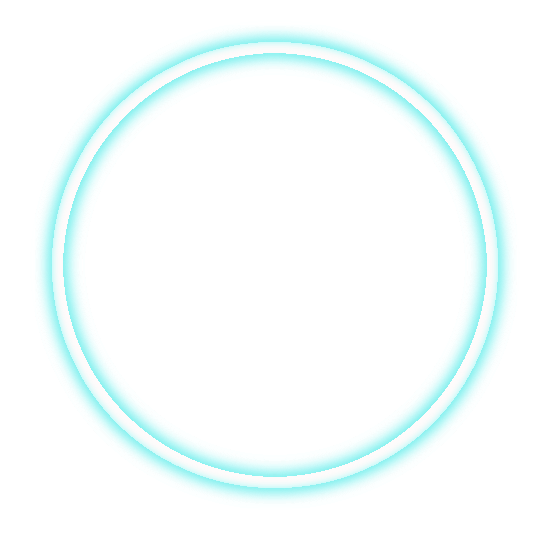
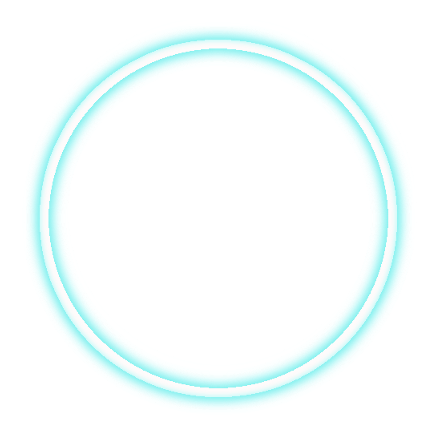
Jag tycker att den är bättre känslan

Changed region(s): [[0.0596, 0.4174, 0.8945, 0.9541], [0.1491, 0.0596, 0.9243, 0.5665], [0.1193, 0.328, 0.1491, 0.3578]]

diff --git a/core/src/fi/ymcafinland/demo/kasittelijat/SolmunKasittelija.java b/core/src/fi/ymcafinland/demo/kasittelijat/SolmunKasittelija.java
@@ -59,7 +59,7 @@ public class SolmunKasittelija {
             float y = s.getYKoordinaatti();
 
             Image taustapallo = luoTaustapallo();
-
+            taustapallo.setOrigin(Align.center);
 
             Table tekstit = luoTekstitaulukko(s);
             Table pallontaulukko = new Table();
@@ -71,10 +71,11 @@ public class SolmunKasittelija {
 
             Table glowiTaulu = new Table();
             Image glowimage = luoGlowKuva();
+            glowimage.setOrigin(Align.center);
             asetaTauluSolmujenPaikalle(s, x, y, glowiTaulu);
 
 
-            glowiTaulu.add(glowimage).minSize(pallonLeveys*1.29f, pallonKorkeus*1.29f);
+            glowiTaulu.add(glowimage).minSize(pallonLeveys*1.27f, pallonKorkeus*1.27f);
 
 
 
@@ -83,19 +84,19 @@ public class SolmunKasittelija {
 
             if(Integer.parseInt(s.getID()) < 25 && Integer.parseInt(s.getID())> 6) {
                 glowKuvaTaulukot.add(glowiTaulu);
-                stage.addActor(glowiTaulu);
             }
 
             solmuTaulukot.add(tekstit);
             stage.addActor(pallontaulukko);
             stage.addActor(tekstit);
+            stage.addActor(glowiTaulu);
         }
         luoGlowAnimaatiot();
     }
 
     private void asetaTauluSolmujenPaikalle(Solmu s, float x, float y, Table glowiTaulu) {
-        glowiTaulu.setPosition(x, y);
         glowiTaulu.setOrigin(Align.center);
+        glowiTaulu.setPosition(x, y);
         glowiTaulu.setRotation(s.getKulma());
     }
 //ToDo parempi glow kuva.
@@ -103,11 +104,11 @@ public class SolmunKasittelija {
 
         for (Table t : glowKuvaTaulukot) {
             t.setTransform(true);
-            t.addAction(Actions.forever(Actions.sequence(Actions.alpha(0.7f, 1f), Actions.alpha(1f, 1f))));
-            t.addAction(Actions.forever(Actions.rotateBy(2, 0.5f)));
-            t.addAction(Actions.forever(Actions.sequence(Actions.scaleTo(1.02f, 1.02f, 3), Actions.scaleTo(1, 1, 3))));
-            t.addAction(Actions.forever(Actions.sequence(Actions.moveBy(2, 2, 3), Actions.moveBy(-2, -2, 3))));
-            t.addAction(Actions.forever(Actions.sequence(Actions.moveBy(-2, 1, 5), Actions.moveBy(1, -2, 5))));
+            t.addAction(Actions.forever(Actions.sequence(Actions.alpha(0.7f, 0.5f), Actions.alpha(1f, 0.5f))));
+            t.addAction(Actions.forever(Actions.rotateBy(2, 0.25f)));
+            t.addAction(Actions.forever(Actions.sequence(Actions.scaleTo(1.02f, 1.02f, 1.5f), Actions.scaleTo(1, 1, 1.5f))));
+//            t.addAction(Actions.forever(Actions.sequence(Actions.moveBy(2, 2, 1.5f), Actions.moveBy(-2, -2, 1.5f))));
+//            t.addAction(Actions.forever(Actions.sequence(Actions.moveBy(-2, 1, 2.5f), Actions.moveBy(1, -2, 2.5f))));
         }
     }
 
